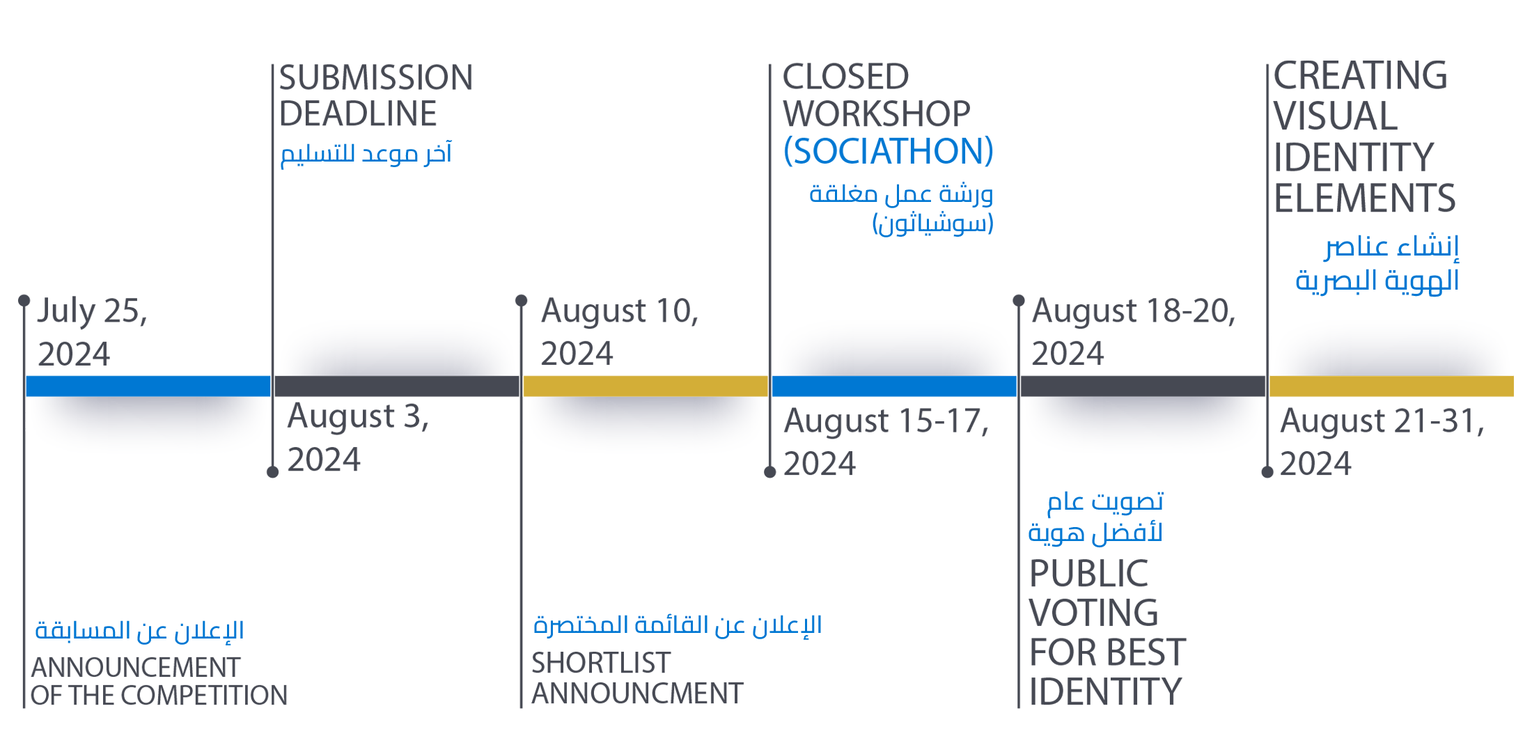
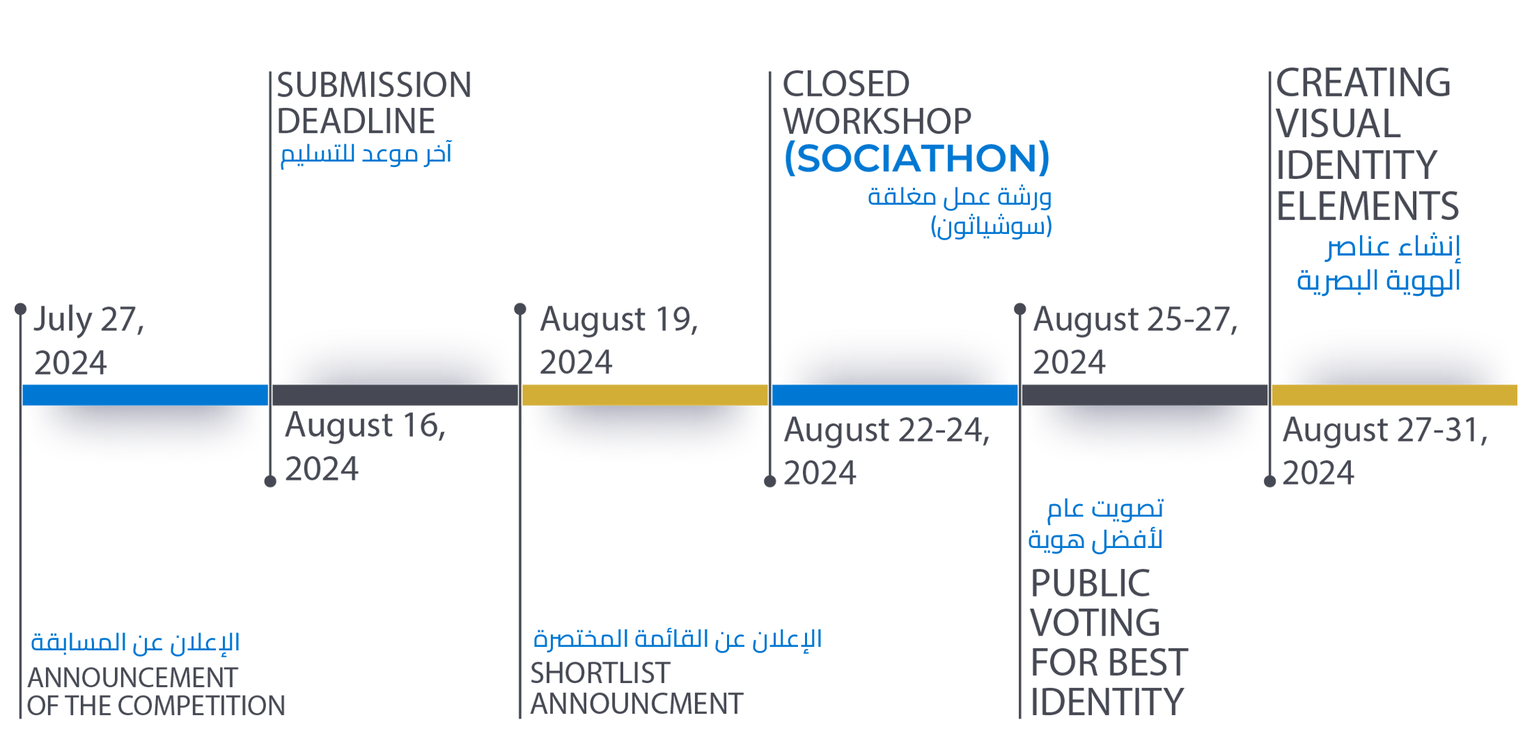
Final version

diff --git a/index.html b/index.html
@@ -1,13 +1,12 @@
-<!DOCTYPE html><html data-bs-theme="light" lang="en"><head><meta charset="utf-8"><meta name="viewport" content="width=device-width, initial-scale=1.0, shrink-to-fit=no"><title>Sociathon - CSF</title><link rel="stylesheet" href="assets/bootstrap/css/bootstrap.min.css?h=2ef8dee5f11530c7b88bfc37301e4638">  <link rel="icon" type="image/x-icon" href="assets/img/favicon.ico">
-  <link rel="stylesheet" href="https://fonts.googleapis.com/css?family=Inter:300italic,400italic,600italic,700italic,800italic,400,300,600,700,800&amp;display=swap"><link rel="stylesheet" href="https://fonts.googleapis.com/css?family=Cairo&amp;display=swap"><link rel="stylesheet" href="assets/css/styles.min.css?h=b78659cc2ca04f6fac587c61f83170cf"></head><body><!-- Start: Navbar Centered Links --><nav class="navbar navbar-expand-md sticky-top navbar-shrink py-3" id="mainNav"><div class="container"><img width="56" height="56" src="assets/img/Logo-Sealed-PNG.gif?h=f93a32849ae506554cd91074704e4723"><span style="font-family: Cairo, sans-serif;font-weight: bold;text-align: center;">&nbsp; &nbsp;SOCIATHON - سوشياثون</span><a class="navbar-brand d-flex align-items-center" href="/"></a><div class="collapse navbar-collapse" id="navcol-1"><ul class="navbar-nav mx-auto"><li class="nav-item"></li><li class="nav-item"></li><li class="nav-item"></li></ul><!-- Start: AgaBtnLanguage --><p class="navbar-text p-0 m-0"><a href="#"></a></p><!-- End: AgaBtnLanguage --></div></div></nav><!-- End: Navbar Centered Links --><header class="bg-primary-gradient"><!-- Start: Hero Clean Reverse --><div class="container pt-4 pt-xl-5"><div class="row pt-5"><div class="col-md-8 col-xl-6 text-center text-md-start mx-auto"><div class="text-center"></div></div><div class="col-12 col-lg-10 mx-auto"><!-- Start: Banner Clean --><section class="py-4 py-xl-5"><div class="container"><div class="text-center p-4 p-lg-5"><p class="fw-bold text-primary mb-2" style="font-family: Cairo, sans-serif;"><span style="color: rgb(25, 25, 25);">SOCIATHON 2024</span></p><h1 class="fw-bold mb-4" style="font-family: Cairo, sans-serif;"><strong><span style="color: rgb(43, 136, 216);">Compete, Change, WIN!</span></strong><br><strong><span style="color: rgb(43, 136, 216);">!تنافس، حقق تغيير، واكسب</span></strong></h1><a class="btn btn-primary fs-5 me-2 py-2 px-4" role="button" href="#apply" style="font-family: Cairo, sans-serif;background: #0078d3;" target="_parent">Apply Now - سجل الآن</a></div></div><!-- Start: Countdown --><div class="d-flex justify-content-center countdown" data-count="2024/8/5"><!-- Start: Days --><div><!-- Start: Value --><h3>%d</h3><!-- End: Value --><!-- Start: Label --><h4>Days</h4><!-- End: Label --></div><!-- End: Days --><!-- Start: Hours --><div><!-- Start: Value --><h3>%h</h3><!-- End: Value --><!-- Start: Label --><h4>Hours</h4><!-- End: Label --></div><!-- End: Hours --><!-- Start: Minutes --><div><!-- Start: Value --><h3>%m</h3><!-- End: Value --><!-- Start: Label --><h4>Minutes</h4><!-- End: Label --></div><!-- End: Minutes --><!-- Start: Seconds --><div><!-- Start: Value --><h3>%s</h3><!-- End: Value --><!-- Start: Label --><h4>Seconds</h4><!-- End: Label --></div><!-- End: Seconds --></div><!-- End: Countdown --><p class="fw-bold text-primary mb-2" style="font-family: Cairo, sans-serif;text-align: center;"><span style="color: rgb(25, 25, 25);">Until Submissions Deadline - حتى الموعد النهائي للتسليم</span></p></section><!-- End: Banner Clean --></div></div></div><!-- End: Hero Clean Reverse --></header><header class="bg-primary-gradient"><!-- Start: Hero Clean Reverse --><div class="container pt-4 pt-xl-5"><div class="row pt-5"><div class="col-md-8 col-xl-6 text-center text-md-start mx-auto"><div class="text-center"></div></div><div class="col-12 col-lg-10 mx-auto"><!-- Start: Banner Clean --><section class="py-4 py-xl-5"><h3 class="fw-bold" style="text-align: left;font-family: Inter, sans-serif;font-size: 35.752px;margin-bottom: 20px;"><strong><span style="color: rgb(0, 120, 211);">What is SOCIATHON?</span></strong></h3><p style="font-family: Inter, sans-serif;text-align: justify;margin-bottom: 47px;"><span style="color: rgb(50, 49, 48);">The Civil Society Support Fund, is excited to announce the launch of “SOCIATHON” which this year will be a Visual Identity Design Competition under the patronage of the Ministry of Social Solidarity, This initiative aims to raise awareness of the Fund’s role and objectives in supporting civil society in Egypt. The competition offers a unique opportunity for creatives and designers to develop a visual identity that embodies the Fund’s vision and goals, which include providing financial, technical, and administrative support to civil society organizations.</span></p><h3 class="fw-bold" style="text-align: right;font-size: 41.752px;padding-bottom: 0px;margin-bottom: 17px;"><strong><span style="color: rgb(0, 120, 211);">ماهو سوشياثون؟</span></strong></h3><p style="text-align: right;font-family: Cairo, sans-serif;padding-bottom: 0px;margin-bottom: 0px;"><span style="color: rgb(50, 49, 48);">يسر صندوق دعم المجتمع المدني أن يعلن عن إطلاق “سوشياثون”، وهي مسابقة لتصميم الهوية البصرية تحت رعاية وزارة التضامن الاجتماعي. تهدف هذه المسابقة إلى زيادة الوعي بدور الصندوق وأهدافه في دعم المجتمع المدني في مصر. توفر المسابقة فرصة فريدة للمبدعين والمصممين في إنشاء هوية بصرية تجسد رؤية وأهداف الصندوق، والتي تشمل تقديم الدعم المالي والفني والإداري لمنظمات المجتمع المدني</span></p></section><!-- End: Banner Clean --></div></div></div><!-- End: Hero Clean Reverse --></header><header class="bg-primary-gradient"><!-- Start: Hero Clean Reverse --><div class="container pt-4 pt-xl-5"><div class="row pt-5"><div class="col-md-8 col-xl-6 text-center text-md-start mx-auto"><div class="text-center"></div></div><div class="col-12 col-lg-10 mx-auto"><!-- Start: Banner Clean --><section class="py-4 py-xl-5"><h3 class="fw-bold" style="text-align: center;">Our Timeline - مخطط المسابقة الزمني</h3><div class="container"><div class="text-center p-4 p-lg-5"><img class="w-100 h-100 fit-cover" src="assets/img/aa.png?h=1a96132315d1ce820a0cf4ad45f7e1ea" width="258" height="126" style="margin-right: 19px;margin-bottom: 24px;"></div></div></section><!-- End: Banner Clean --></div></div></div><!-- End: Hero Clean Reverse --></header><header class="bg-primary-gradient"><!-- Start: Hero Clean Reverse --><div class="container pt-4 pt-xl-5"><div class="row pt-5" style="padding-top: 41px;"><div class="col-md-8 col-xl-6 text-center text-md-start mx-auto"><div class="text-center"></div></div><div class="col-12 col-lg-10 mx-auto" style="padding-right: 0px;padding-left: 0px;"><!-- Start: Banner Clean --><section class="py-4 py-xl-5"><div class="container"><div class="text-center p-4 p-lg-5"><h3 class="fw-bold" style="text-align: center;">Prizes - الجوائز المقدمة</h3><img class="w-100 h-100 fit-cover" src="assets/img/445.png?h=46c067181b33f0804178d9604b162538" width="444" height="254"></div></div><h3 class="fw-bold" style="text-align: left;font-family: Inter, sans-serif;font-size: 24.752px;margin-bottom: 20px;padding: 12px;"><strong><span style="color: rgb(43, 136, 216);">Win and Give Back: Your Chance to Shine and Make a Difference!</span></strong></h3><p style="font-family: Inter, sans-serif;text-align: justify;margin-bottom: 47px;padding: 12px;">The winners' prizes will be split equally between the winner and a charitable project of their choice in Egypt. The charity work will be done in collaboration with a civil society organization selected by the winner. The jury will choose three designs to be showcased on social media for public voting to determine the best one.</p><h3 class="fw-bold" style="text-align: right;font-size: 25.752px;padding: 12px;padding-bottom: 0px;margin-bottom: 17px;"><strong><span style="color: rgb(43, 136, 216);">اكسب وشارك في الخير: فرصتك للتألق وعمل تغيير</span></strong></h3><p style="text-align: right;font-family: Cairo, sans-serif;padding: 12px;padding-bottom: 0px;margin-bottom: 0px;"><span style="color: rgb(50, 49, 48);">الجوائز هتتقسم بالتساوي بين الفائز ومشروع خيري يختاره في جمهورية مصر العربية. هيتنفذ العمل الخيري بالتعاون مع منظمة مجتمع مدني يختارها الفائز. لجنة التحكيم هتختار 3 هويات بصرية لعرضها على السوشيال ميديا للتصويت العام لاختيار أفضل هوية بصرية</span></p></section><!-- End: Banner Clean --></div></div></div><!-- End: Hero Clean Reverse --></header><header class="bg-primary-gradient"><!-- Start: 1 Row 3 Columns --><div class="container"><div class="row"><div class="col-md-4"><div></div></div></div></div><!-- End: 1 Row 3 Columns --></header><section><!-- Start: Features Cards --><div class="container py-5"><h3 class="fw-bold" style="text-align: center;margin-bottom: 19px;">Our Bootcamp - البوت كامب</h3><div class="mx-auto" style="max-width: 900px;"><div class="row row-cols-1 row-cols-md-2 d-flex justify-content-center"><div class="col mb-4"><div class="card bg-primary-subtle"><div class="card-body text-center px-4 py-5 px-md-5"><p class="fw-bold text-primary card-text mb-2" style="font-size: 26px;">Day 1 - اليوم الأول</p><h5 class="fw-bold text-start card-title mb-3" style="font-size: 18px;">Hotel Checking in<br>Opening Cermony<br>Meet the Judges</h5><h5 class="fw-bold text-end card-title mb-3" style="font-size: 18px;">التسجيل في الفندق<br>حفل الافتتاح<br>التعرف على لجنة التحكيم</h5></div></div></div><div class="col mb-4"><div class="card bg-secondary-subtle"><div class="card-body text-center px-4 py-5 px-md-5" style="padding-bottom: 7px;margin-bottom: 45px;"><div></div><p class="fw-bold text-secondary card-text mb-2" style="font-size: 26px;">Day 2 - اليوم الثاني</p><h5 class="fw-bold text-start card-title mb-3" style="font-size: 18px;">The Main Competition<br>Creating The Visual Identity Assets</h5><h5 class="fw-bold text-end card-title mb-3" style="font-size: 18px;">المسابقة الرئيسية<br>إنشاء عناصر الهوية البصرية</h5></div></div></div><div class="col mb-4"><div class="card bg-info-subtle"><div class="card-body text-center px-4 py-5 px-md-5"><p class="fw-bold text-info card-text mb-2" style="font-size: 26px;">Day 3 - اليوم الثالث</p><h5 class="fw-bold text-start card-title mb-3" style="font-size: 18px;">Final Presentation<br>Winners’ Announcement<br>Hotel Checking Out</h5><h5 class="fw-bold text-end card-title mb-3" style="font-size: 18px;">العروض النهائية<br>إعلان الفائزين<br>مغادرة الفندق</h5></div></div></div></div><div id="apply"></div></div></div><!-- End: Features Cards --><!-- Start: Features Small Icons Color --><div class="container text-white bg-primary border rounded border-0 p-4 p-lg-5 py-4 py-xl-5" id="Start"><div class="row mb-5"><div class="col-md-8 col-xl-6 text-center mx-auto"><h2 class="text-white">Start in 3 Simple Steps </h2><h2 class="text-white">إبدأ بثلاث خطوات بسيطة</h2></div></div><div class="row gy-4 row-cols-1 row-cols-md-2 row-cols-xl-3"><div class="col"><div class="d-flex" style="margin-bottom: 18px;"><div class="bs-icon-sm bs-icon-rounded bs-icon-semi-white text-primary d-flex flex-shrink-0 justify-content-center align-items-center d-inline-block mb-3 bs-icon"><svg xmlns="http://www.w3.org/2000/svg" width="1em" height="1em" fill="currentColor" viewBox="0 0 16 16" class="bi bi-1-circle">
-  <path d="M1 8a7 7 0 1 0 14 0A7 7 0 0 0 1 8m15 0A8 8 0 1 1 0 8a8 8 0 0 1 16 0M9.283 4.002V12H7.971V5.338h-.065L6.072 6.656V5.385l1.899-1.383z"></path>
-</svg></div><div class="px-3"><h4 class="text-white"><strong>Download Guidelines' Document</strong></h4><p>Download the below PDF file to know more about “SOCIATHON”, this year competition's rules and guidelines.</p><h4 class="text-white" style="text-align: right;">تحميل ملف القواعد والشروط</h4><p style="text-align: right;">قم بتحميل الملف التالي للتعرف على تفاصيل “سوشياثون” ومسابقة هذه السنة بالإضافة إلى قواعد وشروط المشاركة</p><p></p><a class="btn btn-primary fs-5 me-2 py-2 px-4" role="button" href="https://mossegypt-my.sharepoint.com/:b:/g/personal/melawamy_csf_eg/EdvIom-TA-RBoohH7LeICIoBVDq8iszYaDb8uLFJpqKgcg?download=1" style="font-family: Cairo, sans-serif;background: #eaeaea;padding-right: 24px;color: rgb(0,120,211);" target="_blank">Download - تحميل</a></div></div></div><div class="col"><div class="d-flex"><div class="bs-icon-sm bs-icon-rounded bs-icon-semi-white text-primary d-flex flex-shrink-0 justify-content-center align-items-center d-inline-block mb-3 bs-icon"><svg xmlns="http://www.w3.org/2000/svg" width="1em" height="1em" fill="currentColor" viewBox="0 0 16 16" class="bi bi-2-circle">
-  <path d="M1 8a7 7 0 1 0 14 0A7 7 0 0 0 1 8m15 0A8 8 0 1 1 0 8a8 8 0 0 1 16 0M6.646 6.24v.07H5.375v-.064c0-1.213.879-2.402 2.637-2.402 1.582 0 2.613.949 2.613 2.215 0 1.002-.6 1.667-1.287 2.43l-.096.107-1.974 2.22v.077h3.498V12H5.422v-.832l2.97-3.293c.434-.475.903-1.008.903-1.705 0-.744-.557-1.236-1.313-1.236-.843 0-1.336.615-1.336 1.306Z"></path>
-</svg></div><div class="px-3"><h4 class="text-white"><strong>Fill the form</strong></h4><p>Then, apply to the below form to take part in the competition and start your unforgettable journey in being part of the change!</p><h4 class="text-white" style="text-align: right;">سجل عن الطريق الرابط</h4><p style="text-align: right;">ثم يمكنك التسجيل عن طريق الرابط التالي لتبدأ أولى خطوات رحلة لن تنسى وكن جزء من التغيير</p><p></p><a class="btn btn-primary fs-5 me-2 py-2 px-4" role="button" href="https://forms.office.com/r/gQtTMLRSuX" style="font-family: Cairo, sans-serif;background: #eaeaea;padding-right: 24px;color: rgb(0,120,211);" target="_blank">Apply - سجل</a></div></div></div><div class="col"><div class="d-flex"><div class="bs-icon-sm bs-icon-rounded bs-icon-semi-white text-primary d-flex flex-shrink-0 justify-content-center align-items-center d-inline-block mb-3 bs-icon"><svg xmlns="http://www.w3.org/2000/svg" width="1em" height="1em" fill="currentColor" viewBox="0 0 16 16" class="bi bi-3-circle">
-  <path d="M7.918 8.414h-.879V7.342h.838c.78 0 1.348-.522 1.342-1.237 0-.709-.563-1.195-1.348-1.195-.79 0-1.312.498-1.348 1.055H5.275c.036-1.137.95-2.115 2.625-2.121 1.594-.012 2.608.885 2.637 2.062.023 1.137-.885 1.776-1.482 1.875v.07c.703.07 1.71.64 1.734 1.917.024 1.459-1.277 2.396-2.93 2.396-1.705 0-2.707-.967-2.754-2.144H6.33c.059.597.68 1.06 1.541 1.066.973.006 1.6-.563 1.588-1.354-.006-.779-.621-1.318-1.541-1.318Z"></path>
-  <path d="M16 8A8 8 0 1 1 0 8a8 8 0 0 1 16 0M1 8a7 7 0 1 0 14 0A7 7 0 0 0 1 8"></path>
-</svg></div><div class="px-3"><h4 class="text-white"><strong>Attend the Webinar</strong></h4><p>Register for the optional virtual webinar from the following link to know more about Civil Society Support Fund, its vision, mission, ask your questions to let your creativity out.<br><br><strong>The Webinar will be held on:</strong><br><strong>Monday, 29th July 2024 | 9:00 PM (UTC+3)</strong></p><h4 class="text-white" style="text-align: right;">إحضر الندوة التعريفية</h4><p style="text-align: right;">سجّل في الندوة التعريفية الاختيارية أونلاين من خلال الرابط التالي عشان تعرف أكتر عن صندوق دعم المجتمع الأهلي، ورؤيته، ورسالة، وتسأل أسئلتك عشان تطلق إبداعك.<br><br><strong>:الندوة يوم</strong><br><strong>&nbsp;الاثنين، 29 يوليو 2024 | 9:00 مساءً (بتوقيت القاهرة)</strong></p><p></p><a class="btn btn-primary fs-5 me-2 py-2 px-4" role="button" href="https://bit.ly/CSF-Visual-Info-Session" style="font-family: Cairo, sans-serif;background: #eaeaea;padding-right: 24px;color: rgb(0,120,211);" target="_blank">RSVP - إحجز الندوة</a></div></div></div></div></div><!-- End: Features Small Icons Color --></section><!-- Start: Newsletter Subscription Color --><section class="py-5"></section><!-- End: Newsletter Subscription Color --><!-- Start: Footer Multi Column --><footer class="bg-primary-gradient"><div class="container py-4 py-lg-5"><hr><div class="text-muted d-flex justify-content-between align-items-center pt-3"><p class="mb-0">Copyright © 2024 CSF</p><ul class="list-inline mb-0"><li class="list-inline-item"><a href="https://www.facebook.com/MoSS.Egypt/" target="_blank"><svg xmlns="http://www.w3.org/2000/svg" width="1em" height="1em" fill="currentColor" viewBox="0 0 16 16" class="bi bi-facebook">
+<!DOCTYPE html><html data-bs-theme="light" lang="en"><head><meta charset="utf-8"><meta name="viewport" content="width=device-width, initial-scale=1.0, shrink-to-fit=no"><title>Home - CSF</title><link rel="stylesheet" href="assets/bootstrap/css/bootstrap.min.css?h=2ef8dee5f11530c7b88bfc37301e4638"><link rel="stylesheet" href="https://fonts.googleapis.com/css?family=Inter:300italic,400italic,600italic,700italic,800italic,400,300,600,700,800&amp;display=swap"><link rel="stylesheet" href="https://fonts.googleapis.com/css?family=Cairo&amp;display=swap"><link rel="stylesheet" href="assets/css/styles.min.css?h=b78659cc2ca04f6fac587c61f83170cf"></head><body><!-- Start: Navbar Centered Links --><nav class="navbar navbar-expand-md sticky-top navbar-shrink py-3" id="mainNav"><div class="container"><button data-bs-toggle="collapse" class="navbar-toggler" data-bs-target="#navcol-1"><span class="visually-hidden">Toggle navigation</span><span class="navbar-toggler-icon"></span></button><img width="56" height="56" src="assets/img/Logo-Sealed-PNG.gif?h=f93a32849ae506554cd91074704e4723"><span style="font-family: Cairo, sans-serif;font-weight: bold;text-align: center;">&nbsp; &nbsp;SOCIATHON - سوشياثون</span><a class="navbar-brand d-flex align-items-center" href="/"></a><div class="collapse navbar-collapse" id="navcol-1"><ul class="navbar-nav mx-auto"><li class="nav-item"></li><li class="nav-item"></li><li class="nav-item"></li></ul><!-- Start: AgaBtnLanguage --><p class="navbar-text p-0 m-0"><a href="#"></a></p><!-- End: AgaBtnLanguage --></div></div></nav><!-- End: Navbar Centered Links --><header class="bg-primary-gradient"><!-- Start: Hero Clean Reverse --><div class="container pt-4 pt-xl-5"><div class="row pt-5" style="padding-top: 31px;margin-top: -48px;"><div class="col-md-8 col-xl-6 text-center text-md-start mx-auto"><div class="text-center"></div></div><div class="col-12 col-lg-10 mx-auto"><!-- Start: Banner Clean --><section class="py-4 py-xl-5"><div class="container"><div class="text-center p-4 p-lg-5"><p class="fw-bold text-primary mb-2" style="font-family: Cairo, sans-serif;"><span style="color: rgb(25, 25, 25);">SOCIATHON 2024</span></p><h1 class="fw-bold mb-4" style="font-family: Cairo, sans-serif;"><strong><span style="color: rgb(43, 136, 216);">Compete, Change, WIN!</span></strong><br><strong><span style="color: rgb(43, 136, 216);">!تنافس، حقق تغيير، واكسب</span></strong></h1><a class="btn btn-primary fs-5 me-2 py-2 px-4" role="button" href="#Start" style="font-family: Cairo, sans-serif;background: #0078d3;" target="_parent">Apply Now - سجل الآن</a></div></div><!-- Start: Countdown --><div class="d-flex justify-content-center countdown" data-count="2024/8/16"><!-- Start: Days --><div><!-- Start: Value --><h3>%d</h3><!-- End: Value --><!-- Start: Label --><h4>Days</h4><!-- End: Label --></div><!-- End: Days --><!-- Start: Hours --><div><!-- Start: Value --><h3>%h</h3><!-- End: Value --><!-- Start: Label --><h4>Hours</h4><!-- End: Label --></div><!-- End: Hours --><!-- Start: Minutes --><div><!-- Start: Value --><h3>%m</h3><!-- End: Value --><!-- Start: Label --><h4>Minutes</h4><!-- End: Label --></div><!-- End: Minutes --><!-- Start: Seconds --><div><!-- Start: Value --><h3>%s</h3><!-- End: Value --><!-- Start: Label --><h4>Seconds</h4><!-- End: Label --></div><!-- End: Seconds --></div><!-- End: Countdown --><p class="fw-bold text-primary mb-2" style="font-family: Cairo, sans-serif;text-align: center;"><span style="color: rgb(25, 25, 25);">Until Submissions Deadline - حتى الموعد النهائي للتسليم</span></p></section><!-- End: Banner Clean --></div></div></div><!-- End: Hero Clean Reverse --></header><header class="bg-primary-gradient"><!-- Start: Hero Clean Reverse --><div class="container pt-4 pt-xl-5"><div class="row pt-5"><div class="col-md-8 col-xl-6 text-center text-md-start mx-auto"><div class="text-center"></div></div><div class="col-12 col-lg-10 mx-auto"><!-- Start: Banner Clean --><section class="py-4 py-xl-5"><h3 class="fw-bold" style="text-align: left;font-family: Inter, sans-serif;font-size: 35.752px;margin-bottom: 20px;"><strong><span style="color: rgb(0, 120, 211);">What is SOCIATHON?</span></strong></h3><p style="font-family: Inter, sans-serif;text-align: justify;margin-bottom: 47px;">We’re thrilled to introduce “SOCIATHON,” an exciting new initiative from the Civil Society Support Fund! SOCIATHON is an annual competition that brings our community together to tackle the pressing challenges faced by civil society. This year, we're hosting a Visual Identity Design Competition, supported by the Ministry of Social Solidarity.<br><br>Our goal with SOCIATHON is to shine a spotlight on the vital role of the Fund and how it supports civil society organizations across Egypt. We’re inviting creative minds and designers to craft a visual identity that truly captures the Fund’s vision and objectives. This is a fantastic chance to contribute to our mission of providing essential financial, technical, and administrative support to those working hard to make a difference.<br><br>We can’t wait to see your innovative designs and how they’ll help tell the story of our commitment to empowering civil society.</p><h3 class="fw-bold" style="text-align: right;font-size: 41.752px;padding-bottom: 0px;margin-bottom: 17px;"><strong><span style="color: rgb(0, 120, 211);">ماهو سوشياثون؟</span></strong></h3><p class="text-end" style="text-align: right;font-family: Cairo, sans-serif;padding-bottom: 0px;margin-bottom: 0px;"><span style="color: var(--bs-body-color); background-color: initial;">يسرنا أن نقدم “سوشياثون”، المبادرة الجديدة من صندوق دعم المجتمع الأهلي. تعد سوشياثون مسابقة سنوية تجمع مجتمعنا معًا لمواجهة التحديات الكبيرة التي تواجه المجتمع الأهلي. هذا العام، سننظم مسابقة لتصميم الهوية البصرية الخاصة بالصندوق، بدعم من وزارة التضامن الاجتماعي</span><br>هدفنا من سوشياثون هو تسليط الضوء على الدور الحيوي للصندوق وكيف يدعم منظمات المجتمع المدني في مصر. ندعو العقول المبدعة والمصممين لتصميم هوية بصرية تعكس رؤية وأهداف الصندوق. هذه فرصة رائعة للمساهمة في&nbsp; مهمتنا التي تتمثل في تقديم الدعم المالي والتقني والإداري لأولئك الذين يعملون جاهدين لإحداث فرق في مجتمعنا.<br>متحمسين لرؤية تصميماتكم المبتكرة وكيف ستساعد في نقل قصة التزامنا بدعم المجتمع المدني</p></section><!-- End: Banner Clean --></div></div></div><!-- End: Hero Clean Reverse --></header><header class="bg-primary-gradient"><!-- Start: Hero Clean Reverse --><div class="container pt-4 pt-xl-5"><div class="row pt-5"><div class="col-md-8 col-xl-6 text-center text-md-start mx-auto"><div class="text-center"></div></div><div class="col-12 col-lg-10 mx-auto"><!-- Start: Banner Clean --><section class="py-4 py-xl-5"><h3 class="fw-bold" style="text-align: center;">Our Timeline - مخطط المسابقة الزمني</h3><div class="container"><div class="text-center p-4 p-lg-5"><img class="w-100 h-100 fit-cover" src="assets/img/aa.png?h=e312a57f2bf23cd0262ecfca5fcfc794" width="258" height="126" style="padding-left: 0px;"></div></div></section><!-- End: Banner Clean --></div></div></div><!-- End: Hero Clean Reverse --></header><header class="bg-primary-gradient"><!-- Start: Hero Clean Reverse --><div class="container pt-4 pt-xl-5"><div class="row pt-5" style="padding-top: 41px;"><div class="col-md-8 col-xl-6 text-center text-md-start mx-auto"><div class="text-center"></div></div><div class="col-12 col-lg-10 mx-auto" style="padding-right: 0px;padding-left: 0px;"><!-- Start: Banner Clean --><section class="py-4 py-xl-5"><div class="container"><div class="text-center p-4 p-lg-5"><h3 class="fw-bold" style="text-align: center;">Prizes - الجوائز المقدمة</h3><img class="w-100 h-100 fit-cover" src="assets/img/445.png?h=46c067181b33f0804178d9604b162538" width="444" height="254"></div></div><h3 class="fw-bold" style="text-align: left;font-family: Inter, sans-serif;font-size: 24.752px;margin-bottom: 20px;padding: 12px;"><strong><span style="color: rgb(43, 136, 216);">Win and Give Back: Your Chance to Shine and Make a Difference!</span></strong></h3><p style="font-family: Inter, sans-serif;text-align: justify;margin-bottom: 47px;padding: 12px;">The winners' prizes will be split equally between the winner and a charitable project of their choice in Egypt. The charity work will be done in collaboration with a civil society organization selected by the winner. The jury will choose three designs to be showcased on social media for public voting to determine the best one.</p><h3 class="fw-bold" style="text-align: right;font-size: 25.752px;padding: 12px;padding-bottom: 0px;margin-bottom: 17px;"><strong><span style="color: rgb(43, 136, 216);">اكسب وشارك في الخير: فرصتك للتألق وعمل تغيير</span></strong></h3><p style="text-align: right;font-family: Cairo, sans-serif;padding: 12px;padding-bottom: 0px;margin-bottom: 0px;"><span style="color: rgb(50, 49, 48);">الجوائز هتتقسم بالتساوي بين الفائز ومشروع خيري يختاره في جمهورية مصر العربية. هيتنفذ العمل الخيري بالتعاون مع منظمة مجتمع مدني يختارها الفائز. لجنة التحكيم هتختار 3 هويات بصرية لعرضها على السوشيال ميديا للتصويت العام لاختيار أفضل هوية بصرية</span></p></section><!-- End: Banner Clean --></div></div></div><!-- End: Hero Clean Reverse --></header><header class="bg-primary-gradient"><!-- Start: 1 Row 3 Columns --><div class="container"><div class="row"><div class="col-md-4"><div></div></div></div></div><!-- End: 1 Row 3 Columns --></header><section><!-- Start: Features Cards --><div class="container py-5" style="margin-bottom: -43px;"><h3 class="fw-bold" style="text-align: center;margin-bottom: 23px;">Our Bootcamp - البوت كامب</h3><div class="mx-auto" style="max-width: 900px;"><div class="row row-cols-1 row-cols-md-2 d-flex justify-content-center"><div class="col mb-4"><div class="card bg-primary-subtle"><div class="card-body text-center px-4 py-5 px-md-5" style="margin-top: -29px;margin-bottom: -14px;"><p class="fw-bold text-primary card-text mb-2" style="font-size: 26px;">Day 1 - اليوم الأول</p><h5 class="fw-bold text-start card-title mb-3" style="font-size: 18px;">Opening Ceremony<br>Meet the Judges</h5><h5 class="fw-bold text-start card-title mb-3" style="font-size: 18px;"></h5><h5 class="fw-bold text-end card-title mb-3" style="font-size: 18px;">حفل الافتتاح<br>التعرف على لجنة التحكيم</h5></div></div></div><div class="col mb-4"><div class="card bg-secondary-subtle"><div class="card-body text-center px-4 py-5 px-md-5" style="margin-top: -29px;margin-bottom: -14px;"><div></div><p class="fw-bold text-secondary card-text mb-2" style="font-size: 26px;">Day 2 - اليوم الثاني</p><h5 class="fw-bold text-start card-title mb-3" style="font-size: 18px;">The Main Competition<br>Creating The Visual Identity Assets</h5><h5 class="fw-bold text-end card-title mb-3" style="font-size: 18px;">المسابقة الرئيسية<br>إنشاء عناصر الهوية البصرية</h5></div></div></div><div class="col mb-4"><div class="card bg-info-subtle"><div class="card-body text-center px-4 py-5 px-md-5" style="margin-top: -29px;margin-bottom: -14px;"><p class="fw-bold text-info card-text mb-2" style="font-size: 26px;">Day 3 - اليوم الثالث</p><h5 class="fw-bold text-start card-title mb-3" style="font-size: 18px;">Final Presentation<br>Winners’ Announcement</h5><h5 class="fw-bold text-end card-title mb-3" style="font-size: 18px;">العروض النهائية<br>إعلان الفائزين</h5></div></div></div></div></div></div><!-- End: Features Cards --><div class="container text-white bg-primary border-0 border rounded p-4 p-lg-5 py-4 py-xl-5" id="Start" style="padding-top: 0px;"><div class="row mb-5"><div class="col-md-8 col-xl-6 text-center mx-auto"><h2 class="text-white">Start in 3 Simple Steps </h2><h2 class="text-white">إبدأ بثلاث خطوات بسيطة</h2></div></div><div class="row gy-4 row-cols-1 row-cols-md-2 row-cols-xl-3"><div class="col"><div class="d-flex" style="margin-bottom:18px;"><div class="text-primary d-flex flex-shrink-0 justify-content-center align-items-center bs-icon-sm bs-icon-rounded bs-icon-semi-white d-inline-block mb-3 bs-icon"><svg xmlns="http://www.w3.org/2000/svg" width="1em" height="1em" fill="currentColor" viewBox="0 0 16 16" class="bi bi-1-circle">
+    <path d="M1 8a7 7 0 1 0 14 0A7 7 0 0 0 1 8m15 0A8 8 0 1 1 0 8a8 8 0 0 1 16 0M9.283 4.002V12H7.971V5.338h-.065L6.072 6.656V5.385l1.899-1.383z"></path>
+  </svg></div><div class="px-3"><h4 class="text-white"><strong>Download Guidelines' Document</strong></h4><p>Download the below PDF file to know more about “SOCIATHON”, this year competition's rules and guidelines.</p><h4 class="text-white" style="text-align:right;">تحميل ملف القواعد والشروط</h4><p style="text-align:right;">قم بتحميل الملف التالي للتعرف على تفاصيل “سوشياثون” ومسابقة هذه السنة بالإضافة إلى قواعد وشروط المشاركة</p><p></p><a class="btn btn-primary fs-5 me-2 py-2 px-4" role="button" href="https://mossegypt-my.sharepoint.com/:b:/g/personal/melawamy_csf_eg/EdvIom-TA-RBoohH7LeICIoBVDq8iszYaDb8uLFJpqKgcg?download=1" style="font-family:Cairo, sans-serif;background:#eaeaea;padding-right:24px;color:rgb(0,120,211);" target="_blank">Download - تحميل</a></div></div></div><div class="col"><div class="d-flex"><div class="text-primary d-flex flex-shrink-0 justify-content-center align-items-center bs-icon-sm bs-icon-rounded bs-icon-semi-white d-inline-block mb-3 bs-icon"><svg xmlns="http://www.w3.org/2000/svg" width="1em" height="1em" fill="currentColor" viewBox="0 0 16 16" class="bi bi-2-circle">
+    <path d="M1 8a7 7 0 1 0 14 0A7 7 0 0 0 1 8m15 0A8 8 0 1 1 0 8a8 8 0 0 1 16 0M6.646 6.24v.07H5.375v-.064c0-1.213.879-2.402 2.637-2.402 1.582 0 2.613.949 2.613 2.215 0 1.002-.6 1.667-1.287 2.43l-.096.107-1.974 2.22v.077h3.498V12H5.422v-.832l2.97-3.293c.434-.475.903-1.008.903-1.705 0-.744-.557-1.236-1.313-1.236-.843 0-1.336.615-1.336 1.306Z"></path>
+  </svg></div><div class="px-3"><h4 class="text-white"><strong>Fill the form</strong></h4><p>Then, apply to the below form to take part in the competition and start your unforgettable journey in being part of the change!</p><h4 class="text-white" style="text-align:right;">سجل عن الطريق الرابط</h4><p style="text-align:right;">ثم يمكنك التسجيل عن طريق الرابط التالي لتبدأ أولى خطوات رحلة لن تنسى وكن جزء من التغيير</p><p></p><a class="btn btn-primary fs-5 me-2 py-2 px-4" role="button" href="https://forms.office.com/r/gQtTMLRSuX" style="font-family:Cairo, sans-serif;background:#eaeaea;padding-right:24px;color:rgb(0,120,211);" target="_blank">Apply - سجل</a></div></div></div><div class="col"><div class="d-flex"><div class="text-primary d-flex flex-shrink-0 justify-content-center align-items-center bs-icon-sm bs-icon-rounded bs-icon-semi-white d-inline-block mb-3 bs-icon"><svg xmlns="http://www.w3.org/2000/svg" width="1em" height="1em" fill="currentColor" viewBox="0 0 16 16" class="bi bi-3-circle">
+    <path d="M7.918 8.414h-.879V7.342h.838c.78 0 1.348-.522 1.342-1.237 0-.709-.563-1.195-1.348-1.195-.79 0-1.312.498-1.348 1.055H5.275c.036-1.137.95-2.115 2.625-2.121 1.594-.012 2.608.885 2.637 2.062.023 1.137-.885 1.776-1.482 1.875v.07c.703.07 1.71.64 1.734 1.917.024 1.459-1.277 2.396-2.93 2.396-1.705 0-2.707-.967-2.754-2.144H6.33c.059.597.68 1.06 1.541 1.066.973.006 1.6-.563 1.588-1.354-.006-.779-.621-1.318-1.541-1.318Z"></path>
+    <path d="M16 8A8 8 0 1 1 0 8a8 8 0 0 1 16 0M1 8a7 7 0 1 0 14 0A7 7 0 0 0 1 8"></path>
+  </svg></div><div class="px-3"><h4 class="text-white"><strong>Attend the Webinar</strong></h4><p>Register for the optional virtual webinar from the following link to know more about Civil Society Support Fund, its vision, mission, ask your questions to let your creativity out.<br><br><strong>The Webinar will be held on:</strong><br><strong>Monday, 29th July 2024 | 9:00 PM (UTC+3)</strong></p><h4 class="text-white" style="text-align:right;">إحضر الندوة التعريفية</h4><p style="text-align:right;">سجّل في الندوة التعريفية الاختيارية أونلاين من خلال الرابط التالي عشان تعرف أكتر عن صندوق دعم المجتمع الأهلي، ورؤيته، ورسالة، وتسأل أسئلتك عشان تطلق إبداعك.<br><br><strong>:الندوة يوم</strong><br><strong>&nbsp;الاثنين، 29 يوليو 2024 | 9:00 مساءً (بتوقيت القاهرة)</strong></p><p></p><a class="btn btn-primary fs-5 me-2 py-2 px-4" role="button" href="https://bit.ly/CSF-Visual-Info-Session" style="font-family:Cairo, sans-serif;background:#eaeaea;padding-right:24px;color:rgb(0,120,211);" target="_blank">RSVP - إحجز الندوة</a></div></div></div></div></div></section><!-- Start: Footer Multi Column --><footer class="bg-primary-gradient"><div class="container py-4 py-lg-5"><hr><div class="text-muted d-flex justify-content-between align-items-center pt-3"><p class="mb-0">Copyright © 2024 CSF</p><ul class="list-inline mb-0"><li class="list-inline-item"><a href="https://www.facebook.com/MoSS.Egypt/" target="_blank"><svg xmlns="http://www.w3.org/2000/svg" width="1em" height="1em" fill="currentColor" viewBox="0 0 16 16" class="bi bi-facebook">
   <path d="M16 8.049c0-4.446-3.582-8.05-8-8.05C3.58 0-.002 3.603-.002 8.05c0 4.017 2.926 7.347 6.75 7.951v-5.625h-2.03V8.05H6.75V6.275c0-2.017 1.195-3.131 3.022-3.131.876 0 1.791.157 1.791.157v1.98h-1.009c-.993 0-1.303.621-1.303 1.258v1.51h2.218l-.354 2.326H9.25V16c3.824-.604 6.75-3.934 6.75-7.951"></path>
-</svg></a></li><li class="list-inline-item"><a href="https://x.com/moss_egypt" target="_blank"><svg xmlns="http://www.w3.org/2000/svg" width="1em" height="1em" fill="currentColor" viewBox="0 0 16 16" class="bi bi-twitter">
-  <path d="M5.026 15c6.038 0 9.341-5.003 9.341-9.334 0-.14 0-.282-.006-.422A6.685 6.685 0 0 0 16 3.542a6.658 6.658 0 0 1-1.889.518 3.301 3.301 0 0 0 1.447-1.817 6.533 6.533 0 0 1-2.087.793A3.286 3.286 0 0 0 7.875 6.03a9.325 9.325 0 0 1-6.767-3.429 3.289 3.289 0 0 0 1.018 4.382A3.323 3.323 0 0 1 .64 6.575v.045a3.288 3.288 0 0 0 2.632 3.218 3.203 3.203 0 0 1-.865.115 3.23 3.23 0 0 1-.614-.057 3.283 3.283 0 0 0 3.067 2.277A6.588 6.588 0 0 1 .78 13.58a6.32 6.32 0 0 1-.78-.045A9.344 9.344 0 0 0 5.026 15"></path>
+</svg></a></li><li class="list-inline-item"><a href="https://x.com/moss_egypt" target="_blank"><svg xmlns="http://www.w3.org/2000/svg" width="1em" height="1em" fill="currentColor" viewBox="0 0 16 16" class="bi bi-twitter-x">
+  <path d="M12.6.75h2.454l-5.36 6.142L16 15.25h-4.937l-3.867-5.07-4.425 5.07H.316l5.733-6.57L0 .75h5.063l3.495 4.633L12.601.75Zm-.86 13.028h1.36L4.323 2.145H2.865l8.875 11.633Z"></path>
 </svg></a></li><li class="list-inline-item"></li></ul></div></div></footer><!-- End: Footer Multi Column --><script src="https://cdn.jsdelivr.net/npm/bootstrap@5.3.3/dist/js/bootstrap.bundle.min.js"></script><script src="assets/js/script.min.js?h=acb606bedd6baa4b66faf9df75b79467"></script></body></html>
